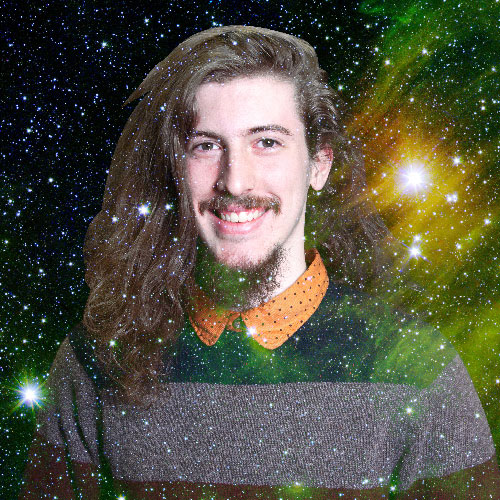
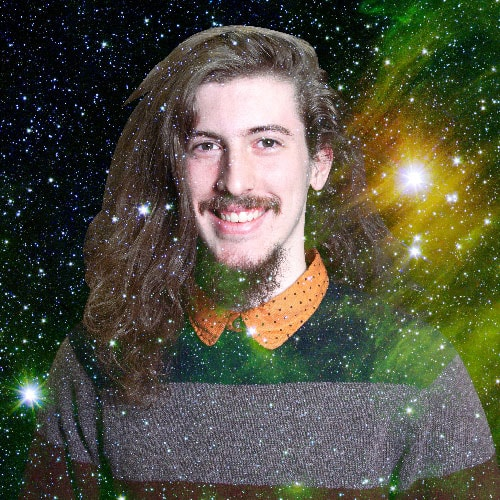
optimizes images

diff --git a/src/index.html b/src/index.html
@@ -16,7 +16,7 @@
   <meta property="og:description" content="Full Stack Web developer Erik Krieg's online business card." />
   <meta property="og:url" content="http://www.erikkrieg.com" />
   <meta property="og:site_name" content="Erik Krieg" />
-  <meta property="og:image" content="http://www.erikkrieg.com/images/space-erik.jpg" />
+  <meta property="og:image" content="http://www.erikkrieg.com/images/space-erik-compressor.jpg" />
 
   <script>
       (function(i,s,o,g,r,a,m){i['GoogleAnalyticsObject']=r;i[r]=i[r]||function(){
@@ -48,7 +48,7 @@
       <div class="hero animate-hue">
         <div class="hero__outer">
           <div class="hero__inner">
-            <img src="./images/space-erik.jpg" alt="Erik semi-transparently overlayed ontop of an outer space background.">
+            <img src="./images/space-erik-compressor.jpg" alt="Erik semi-transparently overlayed ontop of an outer space background.">
           </div>
           <div class="hero__content">
             <h2>Full Stack Web Developer</h2>

diff --git a/src/css/main.css b/src/css/main.css
@@ -56,7 +56,7 @@ main {
 
 .hero__outer {
   display: flex;
-  background-image: url(../images/outer-space.jpg);
+  background-image: url(../images/outer-space-md-compressor.jpg);
   background-size: cover;
   background-position: center;
   background-repeat: no-repeat;
